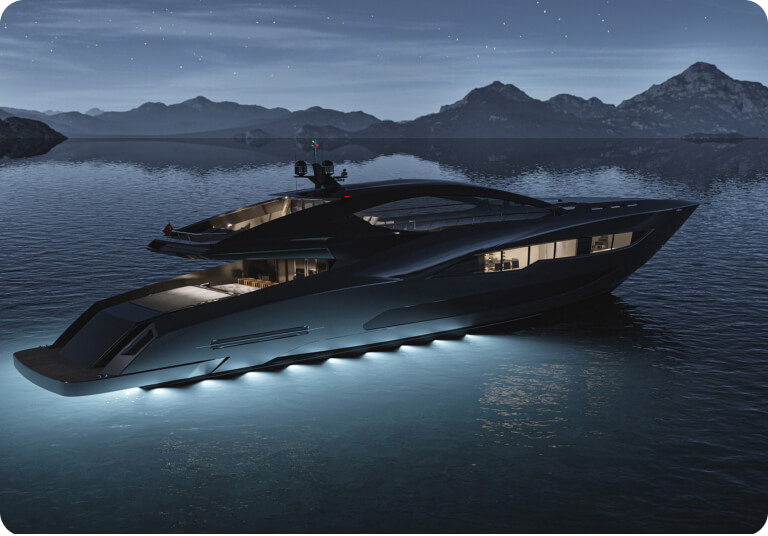
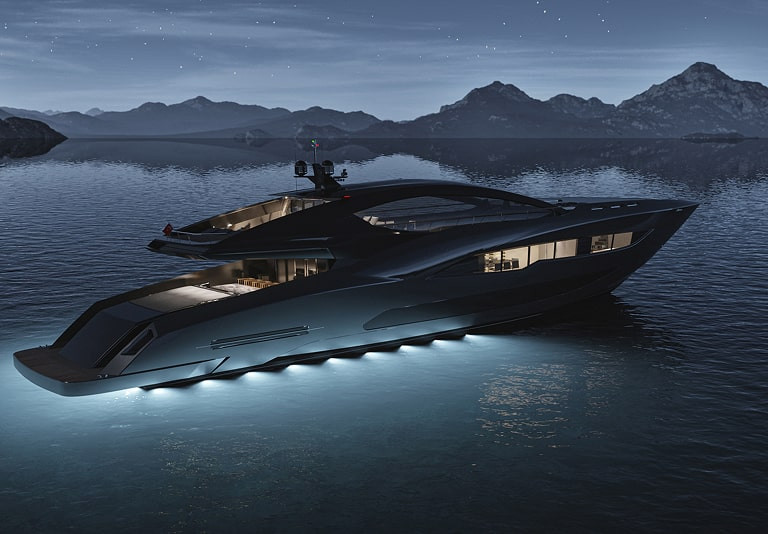
update rent-a-yacht and fix advantages, base, choose-yacht css

diff --git a/src/partials/rent-a-yacht.html b/src/partials/rent-a-yacht.html
@@ -1,30 +1,45 @@
 <section class="rent-a-yacht">
-  <img src="/img/rent-a-yacht.jpg" alt="rent a yacht now" width="768" />
-  <form class="rent-a-yacht-form">
-    <p>Rent a yacht now</p>
-    <label class="label-form">
-      <input
-        class="input-form"
-        type="text"
-        name="name"
-        placeholder="Full Name"
+  <div class="container">
+    <h2 class="rent-a-yacht-title visually-hidden">Rent a yacht</h2>
+    <div class="rent-a-yacht-container">
+      <img
+        src="/img/rent-a-yacht.jpg"
+        class="rent-a-yacht-image"
+        alt="rent a yacht now"
+        width="768"
       />
-    </label>
-    <label class="label-form">
-      <input class="input-form" type="email" name="email" placeholder="Email" />
-    </label>
-    <label class="label-form">
-      <input
-        class="input-form"
-        type="tel"
-        name="tel"
-        placeholder="Phone number"
-      />
-    </label>
-    <label class="label-form">
-      <textarea class="textarea-form" name="comment" placeholder="Comment">
-      </textarea>
-    </label>
-    <button type="submit" class="rent-a-yacht-button">Send</button>
-  </form>
+      <form class="rent-a-yacht-form">
+        <p>Rent a yacht now</p>
+        <label class="label-form">
+          <input
+            class="input-form"
+            type="text"
+            name="name"
+            placeholder="Full Name"
+          />
+        </label>
+        <label class="label-form">
+          <input
+            class="input-form"
+            type="email"
+            name="email"
+            placeholder="Email"
+          />
+        </label>
+        <label class="label-form">
+          <input
+            class="input-form"
+            type="tel"
+            name="tel"
+            placeholder="Phone number"
+          />
+        </label>
+        <label class="label-form">
+          <textarea class="textarea-form" name="comment" placeholder="Comment">
+          </textarea>
+        </label>
+        <button type="submit" class="rent-a-yacht-button">Send</button>
+      </form>
+    </div>
+  </div>
 </section>

diff --git a/src/css/rent-a-yacht.css b/src/css/rent-a-yacht.css
@@ -1,3 +1,21 @@
+.rent-a-yacht-title {
+  font-weight: 500;
+  font-size: 48px;
+  line-height: 1;
+  letter-spacing: -0.02em;
+  text-align: center;
+  color: #fbfbfb;
+}
+
+.rent-a-yacht-container {
+  display: flex;
+  justify-content: left;
+  gap: 50px;
+}
+
+.rent-a-yacht-image {
+  border-radius: 24px;
+}
 .rent-a-yacht-form {
   width: 472px;
 }

diff --git a/src/css/advantages.css b/src/css/advantages.css
@@ -9,18 +9,6 @@
   text-align: center;
   color: #fbfbfb;
 }
-.visually-hidden {
-  position: absolute;
-  width: 1px;
-  height: 1px;
-  margin: -1px;
-  border: 0;
-  padding: 0;
-  white-space: nowrap;
-  clip-path: inset(100%);
-  clip: rect(0 0 0 0);
-  overflow: hidden;
-}
 
 .advantages-container {
   display: flex;

diff --git a/src/css/base.css b/src/css/base.css
@@ -9,3 +9,16 @@ button {
   border: none;
   cursor: pointer;
 }
+
+.visually-hidden {
+  position: absolute;
+  width: 1px;
+  height: 1px;
+  margin: -1px;
+  border: 0;
+  padding: 0;
+  white-space: nowrap;
+  clip-path: inset(100%);
+  clip: rect(0 0 0 0);
+  overflow: hidden;
+}

diff --git a/src/css/choose-yacht.css b/src/css/choose-yacht.css
@@ -2,7 +2,8 @@
 } */
 
 .choose-yacht-container {
-  max-width: 1240px;
+  max-width: 1270px;
+  padding: 0 15px;
   margin: 0 auto;
 }
 
